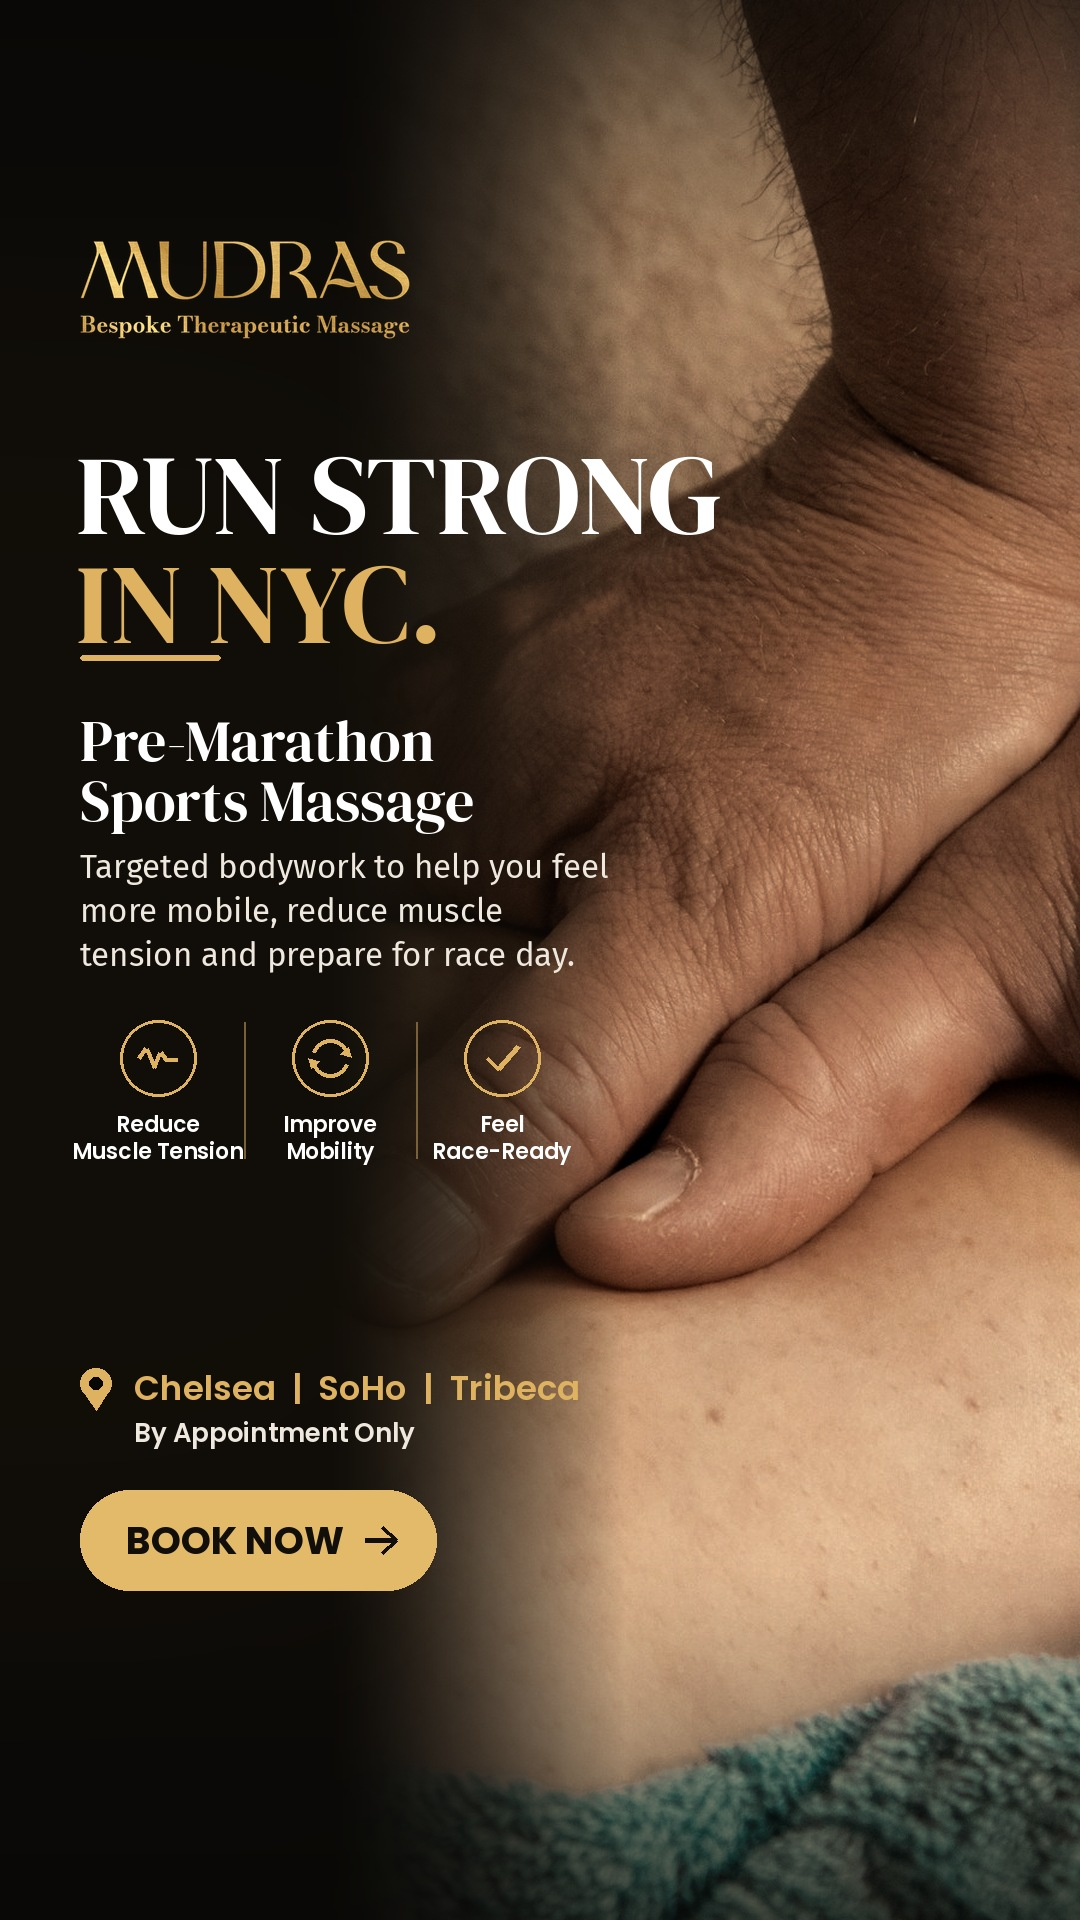
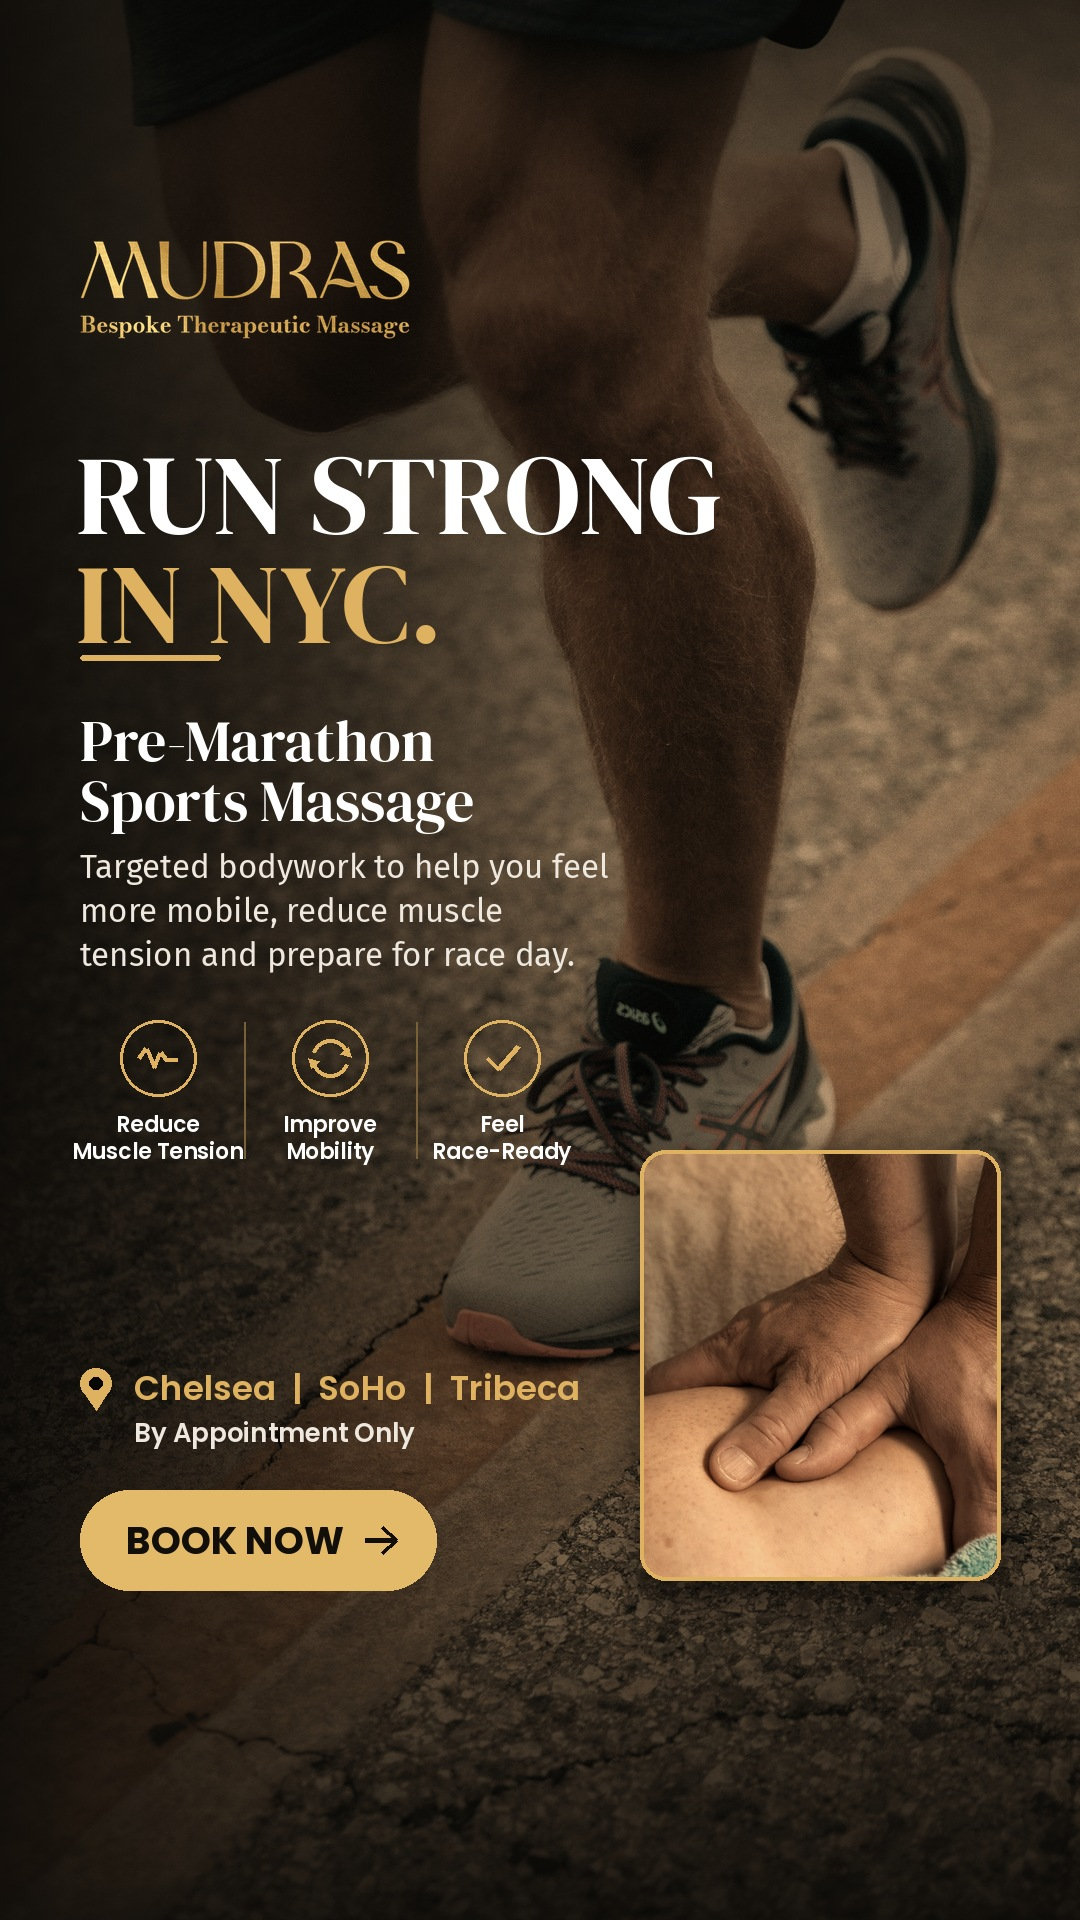
Mudras marathon ads: marathon backgrounds with treatment inset, no faces
Claude-Session: https://claude.ai/code/session_012iSs7UT5B2wZwFj8sHQe5L

diff --git a/ad-creatives/mudras-marathon/src/mudras.py b/ad-creatives/mudras-marathon/src/mudras.py
@@ -21,17 +21,20 @@ logo = logo.crop(logo.getbbox())
 
 # Copy is kept word for word from the approved ad preview.
 ADS = [
-    dict(slug='run-strong', photo='knead.jpg', focus=(0.46, 0.5), mirror=False, zoom=1.0,
+    dict(slug='run-strong', bg='A4579vLezz8.jpg', bg_focus=(0.42, 0.42), bg_mirror=True,
+         inset='knead.jpg', in_focus=(0.47, 0.42), in_zoom=1.15,
          head=[('RUN STRONG', WHITE), ('IN NYC.', GOLD)],
          sub=['Pre-Marathon', 'Sports Massage'],
          copy='Targeted bodywork to help you feel more mobile, reduce muscle tension and prepare for race day.',
          icons=[('tension', 'Reduce\nMuscle Tension'), ('mobility', 'Improve\nMobility'), ('ready', 'Feel\nRace-Ready')]),
-    dict(slug='marathon-ready', photo='forearm.jpg', focus=(0.46, 0.70), mirror=False, zoom=1.3,
+    dict(slug='marathon-ready', bg='sK-nciHHnYA.jpg', bg_focus=(0.42, 0.40), bg_mirror=False,
+         inset='forearm.jpg', in_focus=(0.46, 0.74), in_zoom=1.0,
          head=[('NYC', WHITE), ('MARATHON', WHITE), ('READY?', GOLD)],
          sub=['Pre-Race', 'Sports Massage'],
          copy='Personalized, one-on-one sessions to support your body, mobility and race preparation.',
          icons=None),
-    dict(slug='race-prep', photo='physio.jpg', focus=(0.50, 0.5), mirror=False, zoom=1.0,
+    dict(slug='race-prep', bg='1xx1hq2RJts.jpg', bg_focus=(0.66, 0.62), bg_mirror=False,
+         inset='thumbs.jpg', in_focus=(0.84, 0.56), in_zoom=1.35,
          head=[('Your', WHITE), ('Race Prep', GOLD), ('Starts Here.', WHITE)],
          sub=['Pre-Marathon', 'Sports Massage'],
          copy='Bespoke treatments for runners to support flexibility, ease muscle tension and help you feel prepared for race day.',
@@ -43,9 +46,9 @@ def grade(im):
     """Warm, low-key grade so every photo sits in the black-and-gold Mudras look."""
     a = np.asarray(im.convert('RGB')).astype(np.float32) / 255
     lum = a @ np.array([0.299, 0.587, 0.114], np.float32)
-    a = a * 0.55 + lum[..., None] * 0.45                      # pull saturation down
-    a = a * np.array([1.06, 0.98, 0.86], np.float32)          # warm
-    a = np.clip(a, 0, 1) ** 1.25 * 0.92                        # deeper shadows
+    a = a * 0.45 + lum[..., None] * 0.55                      # pull saturation down
+    a = a * np.array([1.12, 0.97, 0.78], np.float32)          # golden warm
+    a = np.clip(a, 0, 1) ** 1.2 * 0.95                         # deeper shadows
     return Image.fromarray((np.clip(a, 0, 1) * 255).astype(np.uint8))
 
 
@@ -109,41 +112,55 @@ def pin(d, x, y, h, col=GOLD):
     d.ellipse((x - r * 0.4, y + r * 0.6, x + r * 0.4, y + r * 1.4), fill=(8, 7, 5))
 
 
-def right_photo(ad, W, H, frac=0.64, fade=280):
-    """Photo fills the right side at full height; its left edge melts into black, like the original layout."""
-    im = Image.open(M + 'u/full/' + ad['photo']).convert('RGB')
-    if ad['mirror']:
+def cover(path, W, H, focus, target, mirror=False, zoom=1.0):
+    im = Image.open(M + 'u/full/' + path).convert('RGB')
+    if mirror:
         im = ImageOps.mirror(im)
-    fx = (1 - ad['focus'][0]) if ad['mirror'] else ad['focus'][0]
-    rw = int(W * frac)
-    sc = H / im.height * ad['zoom']
+        focus = (1 - focus[0], focus[1])
+    sc = max(W / im.width, H / im.height) * zoom
     im = im.resize((int(im.width * sc), int(im.height * sc)), Image.LANCZOS)
-    cx = int(np.clip(fx * im.width - rw / 2, 0, max(0, im.width - rw)))
-    cy = int(np.clip(ad['focus'][1] * im.height - H / 2, 0, im.height - H))
-    ph = grade(im.crop((cx, cy, cx + rw, cy + H))).convert('RGBA')
-    xx = np.arange(rw, dtype=np.float32)
-    a = (np.clip(xx / fade, 0, 1) ** 1.6 * 255)
-    ph.putalpha(Image.fromarray(np.repeat(a[None, :], H, 0).astype(np.uint8)))
-    img = Image.new('RGBA', (W, H), (9, 8, 6, 255))
-    glow = Image.new('L', (W, H), 0)
-    ImageDraw.Draw(glow).ellipse((-W * 0.4, H * 0.1, W * 0.7, H * 0.9), fill=40)
-    lay = Image.new('RGBA', (W, H), (60, 44, 22, 255))
-    lay.putalpha(glow.filter(ImageFilter.GaussianBlur(160)))
-    img.alpha_composite(lay)
-    img.alpha_composite(ph, (W - rw, 0))
-    # gentle top/bottom darkening keeps logo and CTA crisp
-    yy = np.arange(H, dtype=np.float32)
-    v = np.maximum(np.clip(1 - yy / (H * 0.2), 0, 1) ** 1.5 * 150, np.clip((yy - H * 0.8) / (H * 0.2), 0, 1) ** 1.5 * 170)
+    x0 = int(np.clip(focus[0] * im.width - target[0], 0, im.width - W))
+    y0 = int(np.clip(focus[1] * im.height - target[1], 0, im.height - H))
+    return grade(im.crop((x0, y0, x0 + W, y0 + H)))
+
+
+def background(ad, W, H):
+    img = cover(ad['bg'], W, H, ad['bg_focus'], (W * 0.68, H * 0.42), ad['bg_mirror']).convert('RGBA')
+    yy, xx = np.mgrid[0:H, 0:W].astype(np.float32)
+    left = np.clip(1 - xx / (W * 0.80), 0, 1) ** 0.85 * 235
+    top = np.clip(1 - yy / (H * 0.28), 0, 1) ** 1.4 * 170
+    bot = np.clip((yy - H * 0.62) / (H * 0.38), 0, 1) ** 1.2 * 225
+    a = np.clip(np.maximum.reduce([left, top, bot]), 0, 240)
     lay = Image.new('RGBA', (W, H), (9, 8, 6, 255))
-    lay.putalpha(Image.fromarray(np.repeat(v[:, None], W, 1).astype(np.uint8)))
+    lay.putalpha(Image.fromarray(a.astype(np.uint8)))
     img.alpha_composite(lay)
     return img
+
+
+def inset_card(img, ad, box):
+    x0, y0, x1, y1 = box
+    w, h = x1 - x0, y1 - y0
+    ph = cover(ad['inset'], w, h, ad['in_focus'], (w / 2, h / 2), zoom=ad['in_zoom']).convert('RGBA')
+    mask = Image.new('L', (w, h), 0)
+    ImageDraw.Draw(mask).rounded_rectangle((0, 0, w - 1, h - 1), 26, fill=255)
+    sh = Image.new('L', img.size, 0)
+    ImageDraw.Draw(sh).rounded_rectangle((x0 + 4, y0 + 14, x1 + 4, y1 + 18), 30, fill=170)
+    lay = Image.new('RGBA', img.size, (0, 0, 0, 255))
+    lay.putalpha(sh.filter(ImageFilter.GaussianBlur(22)))
+    img.alpha_composite(lay)
+    ph.putalpha(mask)
+    img.alpha_composite(ph, (x0, y0))
+    ImageDraw.Draw(img).rounded_rectangle((x0, y0, x1, y1), 26, outline=GOLD, width=4)
 
 
 def render(ad, W, H, story):
     pad = 80
     top0 = 240 if story else 58
-    img = right_photo(ad, W, H, frac=0.70 if story else 0.64, fade=300 if story else 280)
+    img = background(ad, W, H)
+    if story:
+        inset_card(img, ad, (W - 80 - 360, 1150, W - 80, 1580))
+    else:
+        inset_card(img, ad, (W - 64 - 360, 560, W - 64, 1010))
     d = ImageDraw.Draw(img)
     colw = int(W * 0.50)
     lw = 330

diff --git a/ad-creatives/mudras-marathon/IMAGE-SOURCES.md b/ad-creatives/mudras-marathon/IMAGE-SOURCES.md
@@ -1,13 +1,17 @@
 # Mudras NYC Marathon ads: image sources
 
-Text is kept word for word from the approved ad preview. Layout follows the original (logo, headline, gold rule, serif subheading, body copy, icons on ad 1, location, Book Now), with larger text for phones.
+Copy is word for word from the approved ad preview; layout follows the original. No faces are shown in any image.
+Each ad = marathon background (main image) + gold-framed close-up of the treatment (hands applying pressure).
 
-| Ad | Photo | Source URL | Photographer | Licence |
+| Ad | Role | Photo | Source URL | Photographer |
 |---|---|---|---|---|
-| Run Strong in NYC | Two hands kneading deep into the leg | https://unsplash.com/photos/J1trUf0Lj3Q | Bas Peperzak | Unsplash License (free commercial use) |
-| NYC Marathon Ready? | Stacked hands pressing into the calf | https://unsplash.com/photos/S5kBoNhfHgc | Filipp Romanovski | Unsplash License (free commercial use) |
-| Your Race Prep Starts Here | Therapist treating an athlete's leg | https://unsplash.com/photos/pbUWW-CBoqY | Yury Kirillov | Unsplash License (free commercial use) |
-| Logo (all ads) | Mudras logo | https://images.squarespace-cdn.com/content/v1/68c4a7c58fe04131b7cf10fa/d7cb644e-71c3-4404-986c-d5b3c6afc6c9/1+Mudras+Logo+Full.png | Mudras | Client's own |
+| Run Strong in NYC | Background | Runner's legs and shoes on the road | https://unsplash.com/photos/A4579vLezz8 | Jakob Owens |
+| Run Strong in NYC | Treatment inset | Two hands kneading deep into the leg | https://unsplash.com/photos/J1trUf0Lj3Q | Bas Peperzak |
+| NYC Marathon Ready? | Background | Verrazzano Bridge at the NYC Marathon start (runners from behind) | https://unsplash.com/photos/sK-nciHHnYA | Evan Buchholz |
+| NYC Marathon Ready? | Treatment inset | Stacked hands pressing into the calf | https://unsplash.com/photos/S5kBoNhfHgc | Filipp Romanovski |
+| Your Race Prep Starts Here | Background | NYC Marathon runners with race bibs (legs/torsos only) | https://unsplash.com/photos/1xx1hq2RJts | Tong Su |
+| Your Race Prep Starts Here | Treatment inset | Hands working the calf | https://unsplash.com/photos/2JFewBzgZU4 | Filipp Romanovski |
+| All ads | Logo | Mudras logo | https://images.squarespace-cdn.com/content/v1/68c4a7c58fe04131b7cf10fa/d7cb644e-71c3-4404-986c-d5b3c6afc6c9/1+Mudras+Logo+Full.png | Mudras (client) |
 
-The client asked for photos "ideally from an actual Mudras session". mudras.com only has black-and-white session photos; if the client can share colour photos from a real session, they can be dropped into the same layout.
+All photos: Unsplash License (free for commercial use, no attribution required).
 Brand gold sampled from the logo: #C89848 to #E0B860.
